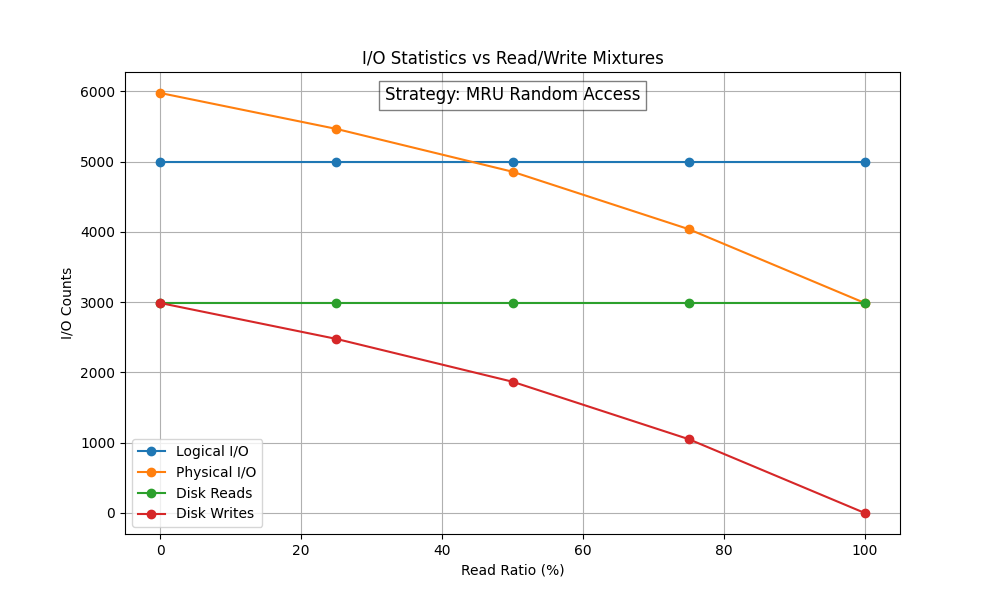
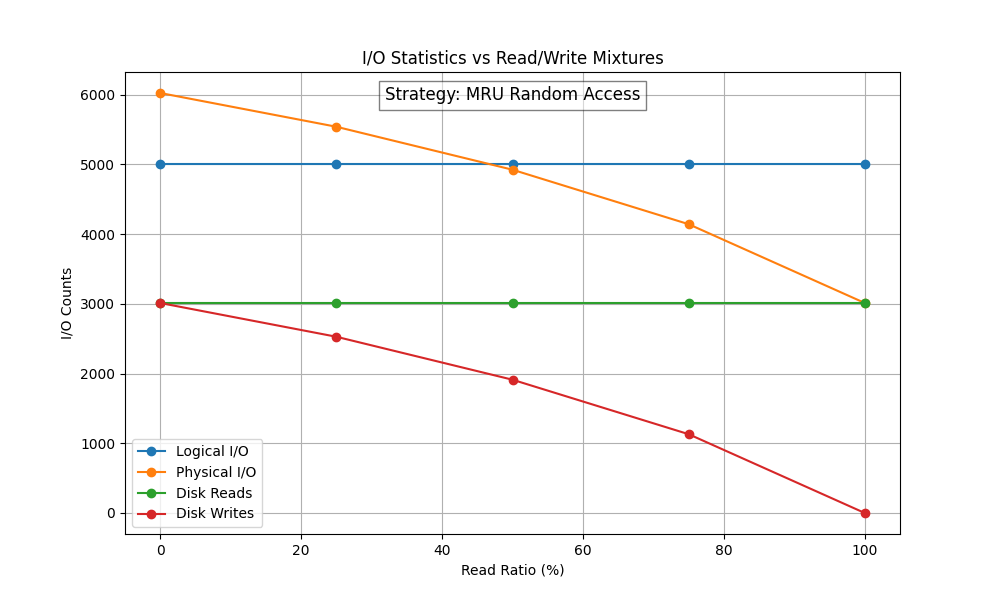
New buf

diff --git a/ToyDB/pflayer/buf.c b/ToyDB/pflayer/buf.c
@@ -137,8 +137,13 @@ static int PFbufInternalAlloc(PFbpage **bpage, int (*writefcn)(int, int, PFfpage
 		*bpage = tbpage;
 	}
 
-    /* ALWAYS link a new page (from a miss) to the head. */
-	PFbufLinkHead(*bpage);
+
+	if (PFftab[fd].strategy == PF_LRU) {
+		PFbufLinkHead(*bpage);
+	} else {
+		PFbufLinkTail(*bpage);
+	}
+
 	return(PFE_OK);
 }
 
